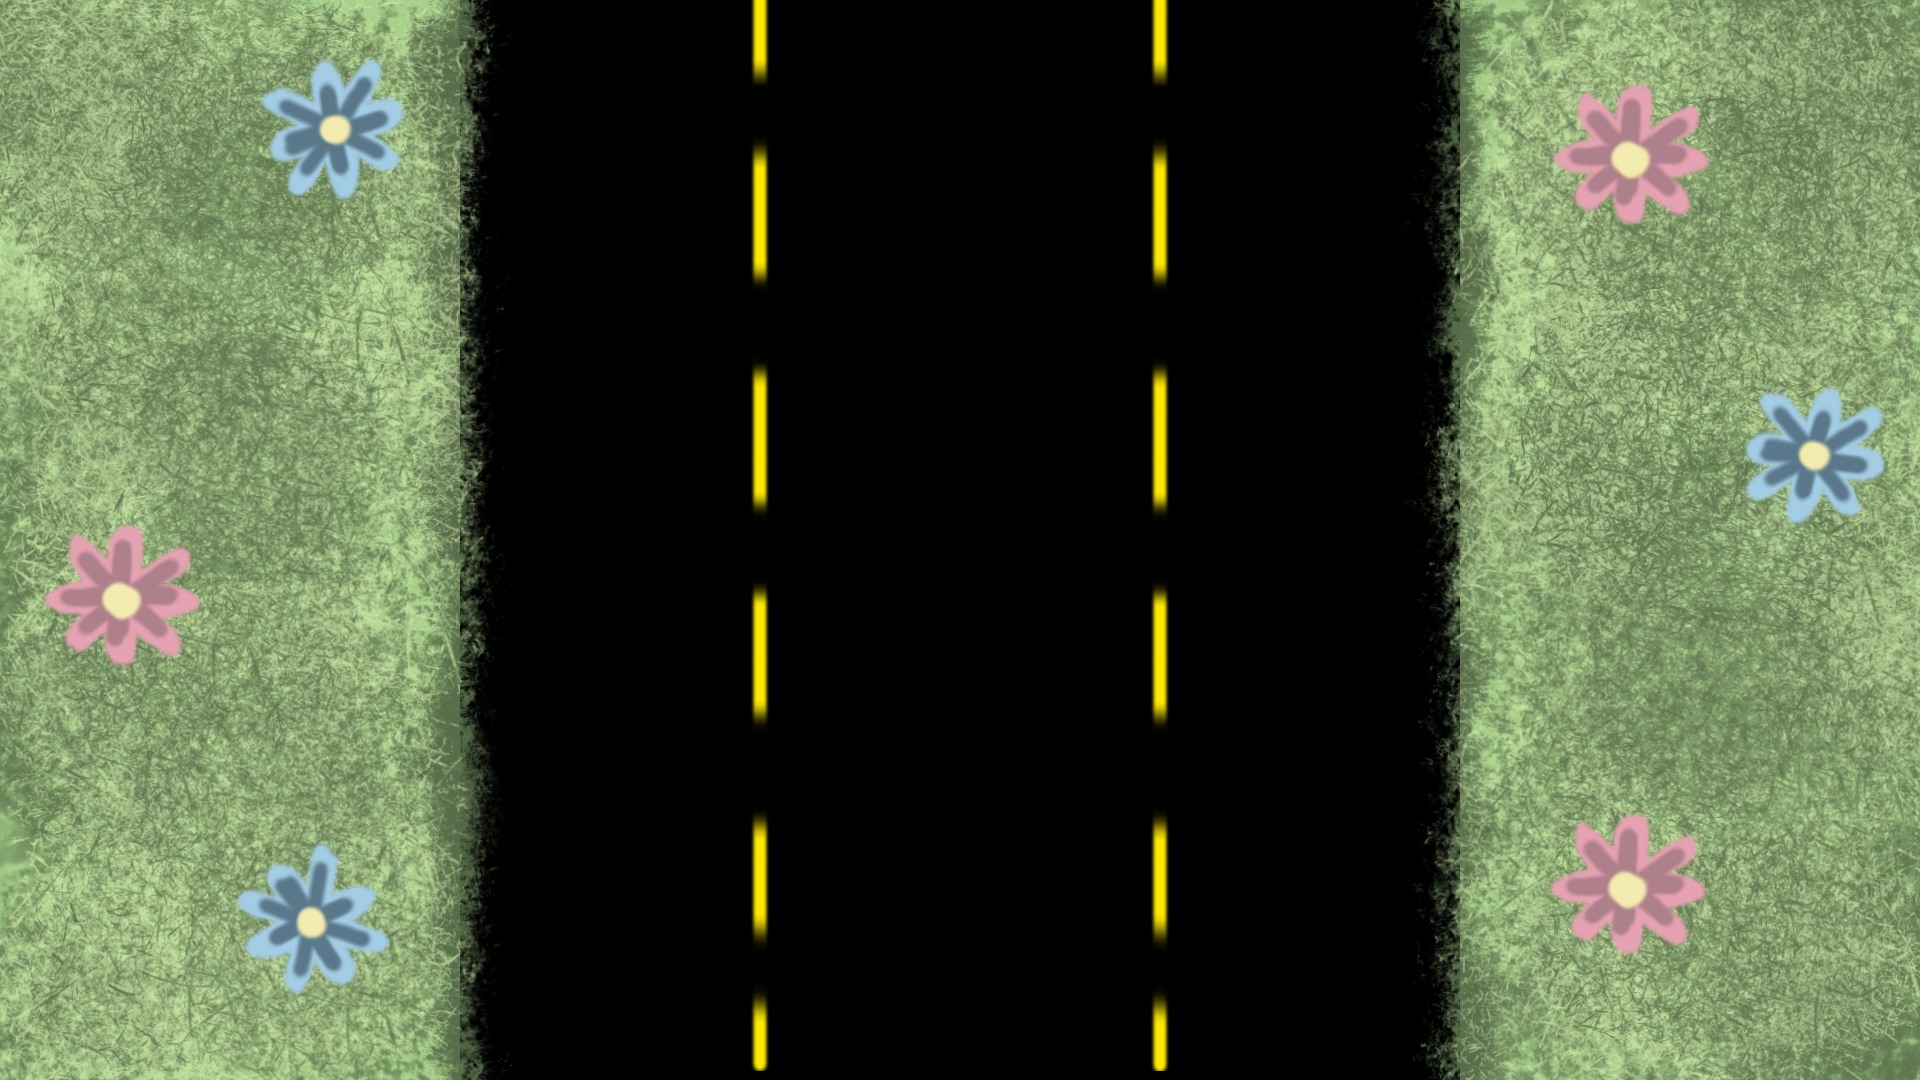
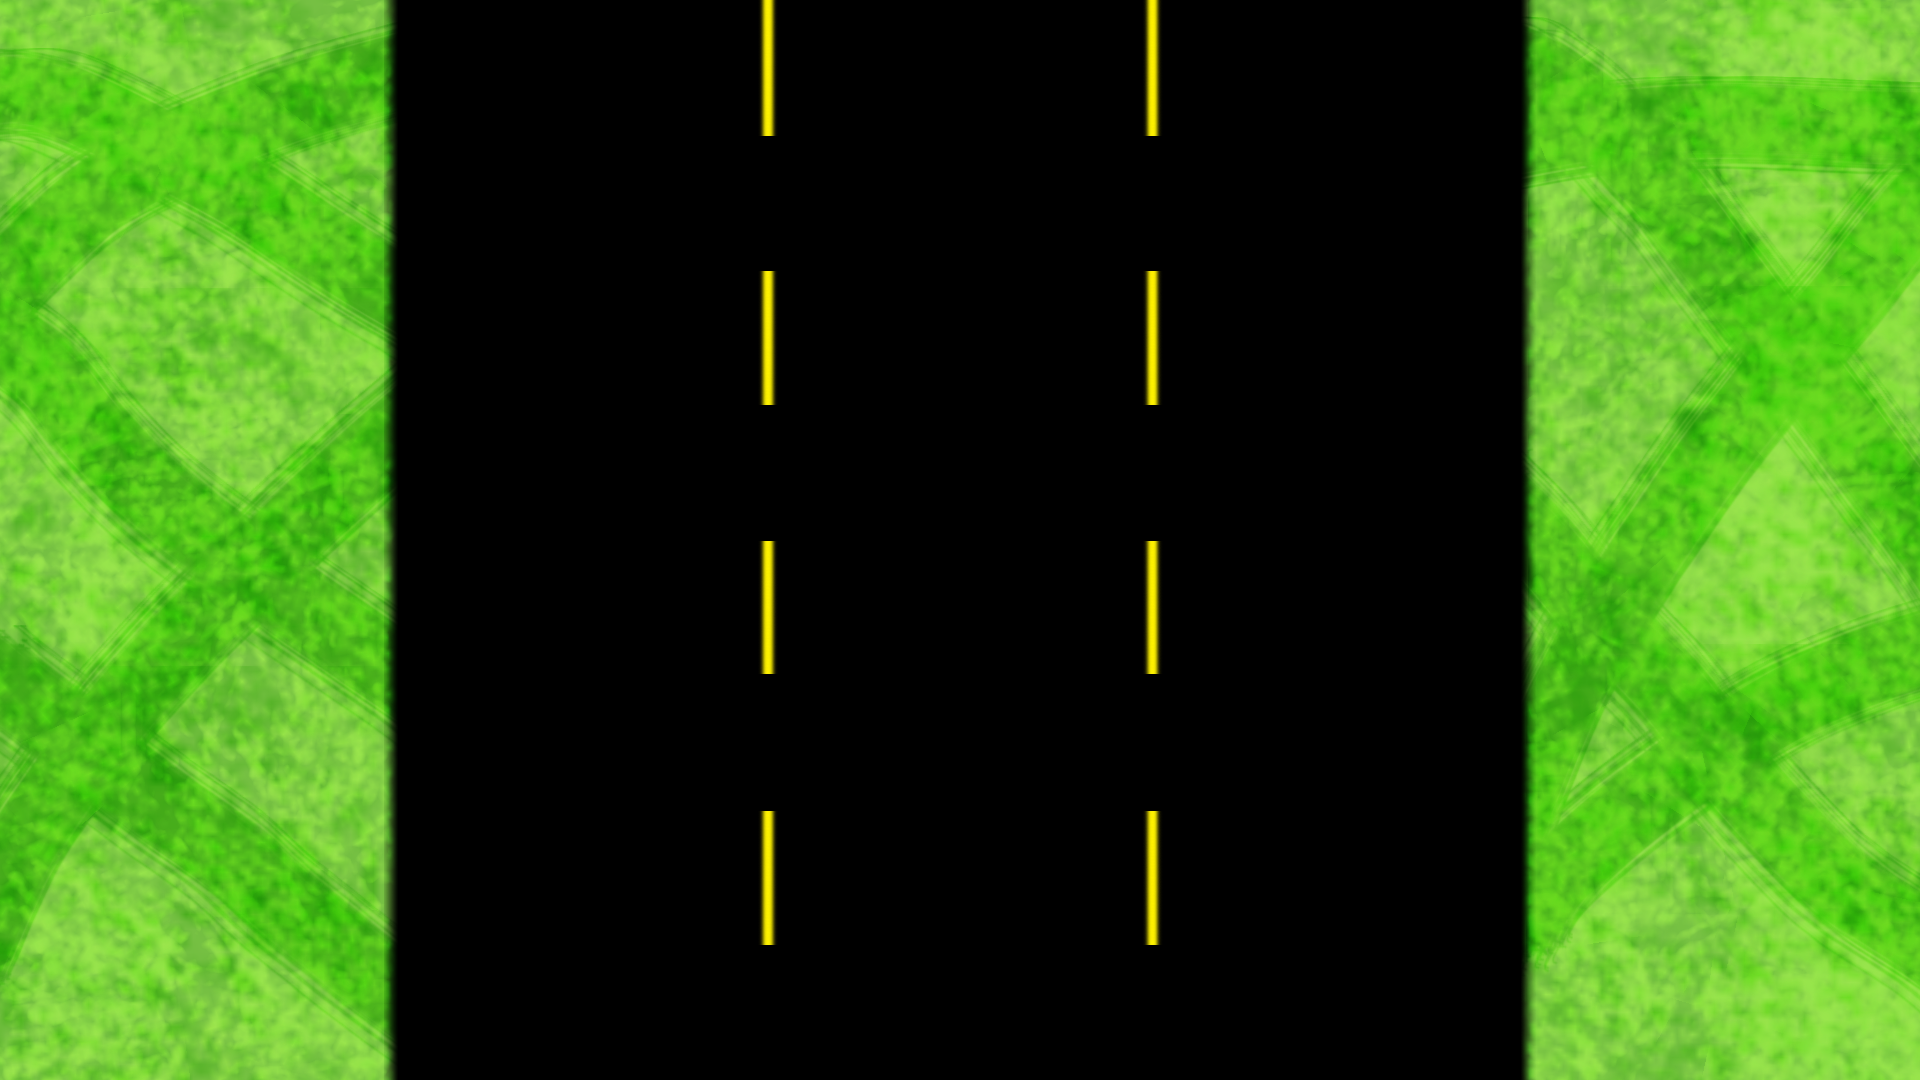
new road texture

diff --git a/core/src/edu/cornell/gdiac/mangosnoops/hudentity/VroomStick.java b/core/src/edu/cornell/gdiac/mangosnoops/hudentity/VroomStick.java
@@ -45,23 +45,14 @@ public class VroomStick extends Image {
                         ang, relativeScale*canvas.getHeight(), relativeScale*canvas.getHeight());
     }
 
-    //@Override
-//    public void inArea(Vector2 in){
-//
-//    }
     public void update(Vector2 in, float dy) {
-//        System.out.println("hitbox:"+hitbox);
 
-        if(in != null){
+        if(in != null) {
             in.y = SCREEN_DIMENSIONS.y-in.y;
         }
         if (in != null && hitbox.contains(in)) {
             ang -= dy;
-//            System.out.println("In rect");
-//            System.out.println("angle is: " + ang);
-//            System.out.println("dy is: " + dy);
             hitbox.setPosition(hitbox.getX(),(hitbox.getY()- dy));
-//            System.out.println("hitbox is now:"+hitbox);
 
             if (ang < ENGAGE_ANGLE) {
                 ang = ENGAGE_ANGLE;
@@ -78,8 +69,6 @@ public class VroomStick extends Image {
         }
 
         if(hitbox.getY()+hitbox.getHeight() > position.y*SCREEN_DIMENSIONS.y + texture.getHeight()*SCREEN_DIMENSIONS.y*relativeScale){
-            //System.out.println("thatboi numba 1: " + (hitbox.getY()));
-            //System.out.println("thatboi numba 2: " + (position.y*SCREEN_DIMENSIONS.y + texture.getHeight()*SCREEN_DIMENSIONS.y*relativeScale));
             hitbox.setPosition(position.x*SCREEN_DIMENSIONS.x + 0.736f*texture.getWidth()*SCREEN_DIMENSIONS.y*relativeScale,
                                  position.y*SCREEN_DIMENSIONS.y + 0.652f*texture.getHeight()*SCREEN_DIMENSIONS.y*relativeScale);
         }
